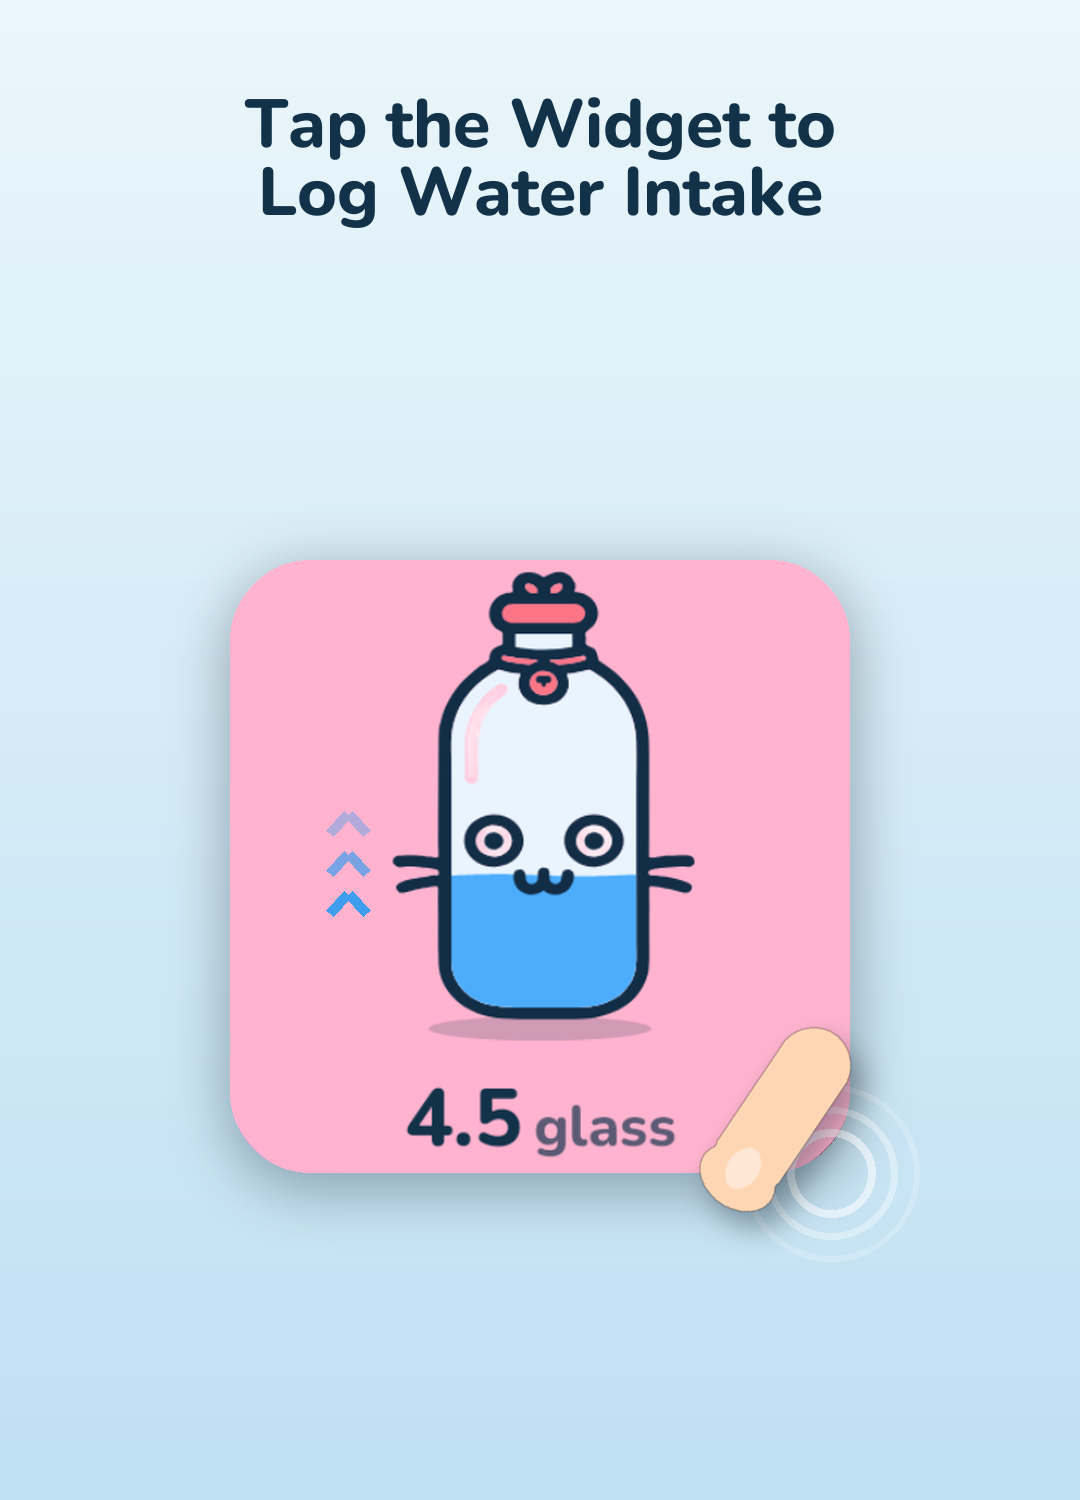
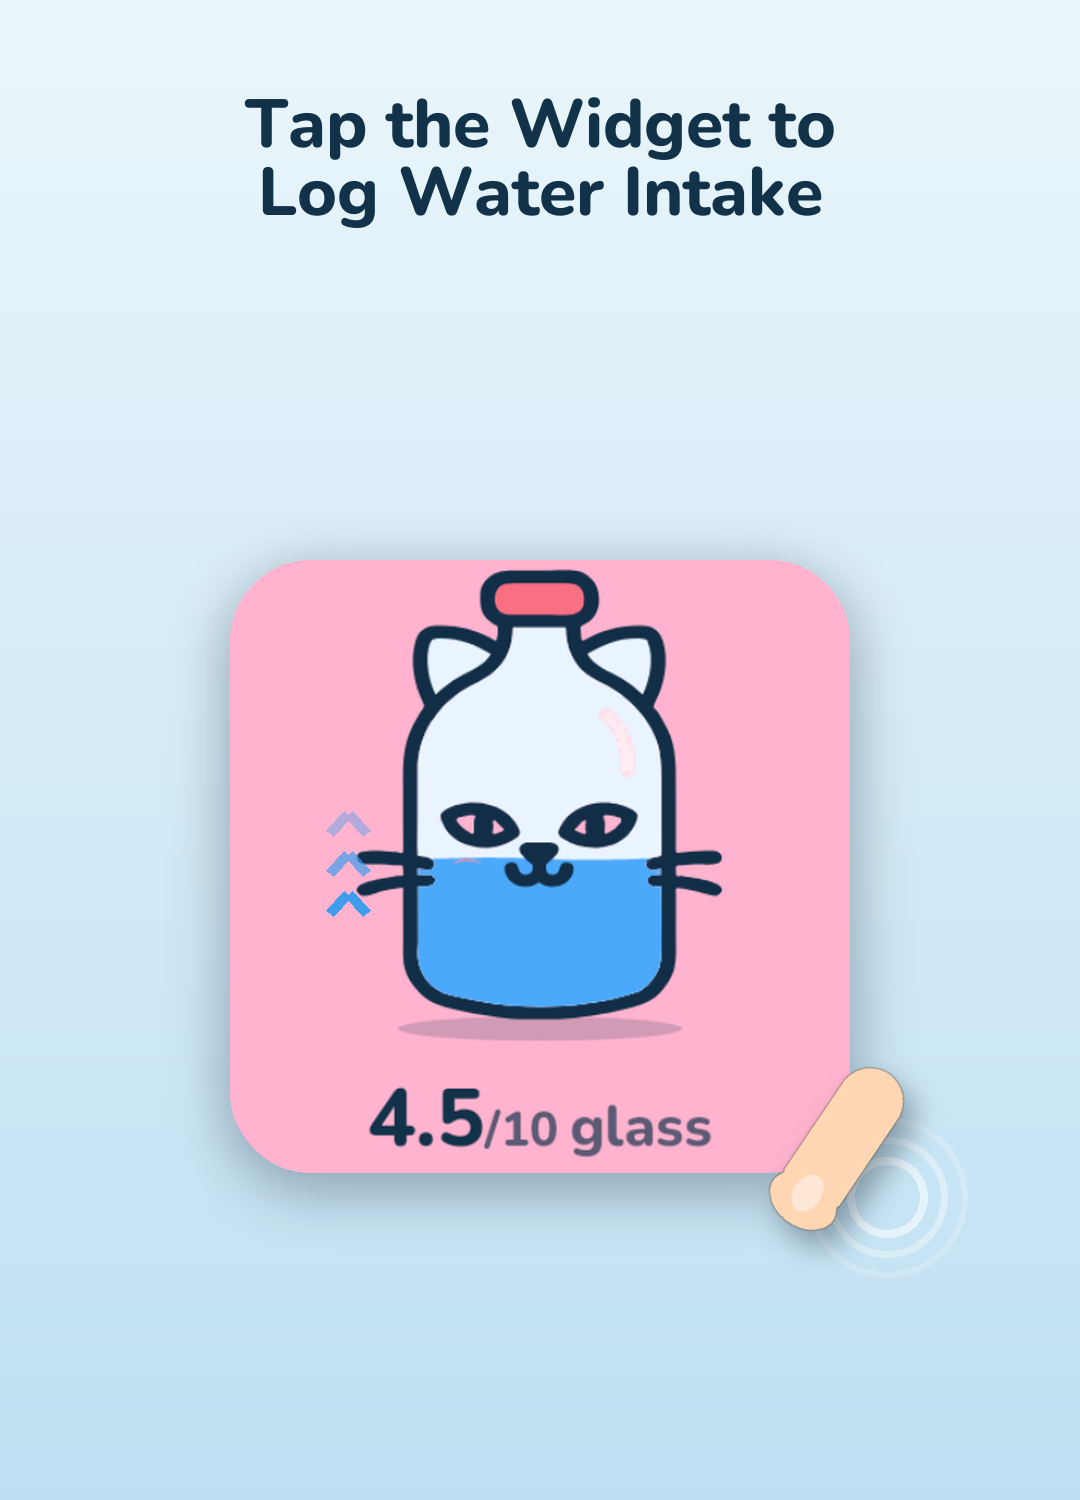
Regenerate store screenshots, bump to version 1.0.14 (code 15)
Screenshots now match the current app: single eared character across
all four (only the background color varies), the fixed bullseye
alignment, and the new "current/goal glass" amount format.

Changed region(s): [[0.3361, 0.368, 0.8556, 0.8587]]

diff --git a/v1/store/play-console-answers.md b/v1/store/play-console-answers.md
@@ -1,6 +1,6 @@
 # Google Play Console: answers to copy in
 
-App ID `com.developerjabberai.watertracker` · Title "Widget: Water Tracker & Remind" (app name on the phone: "Water Tracker") · version 1.0.13 (code 14) · signed AAB at
+App ID `com.developerjabberai.watertracker` · Title "Widget: Water Tracker & Remind" (app name on the phone: "Water Tracker") · version 1.0.14 (code 15) · signed AAB at
 `v1/WaterTracker/app/build/outputs/bundle/release/app-release.aab`
 
 ## 1. Create the app
